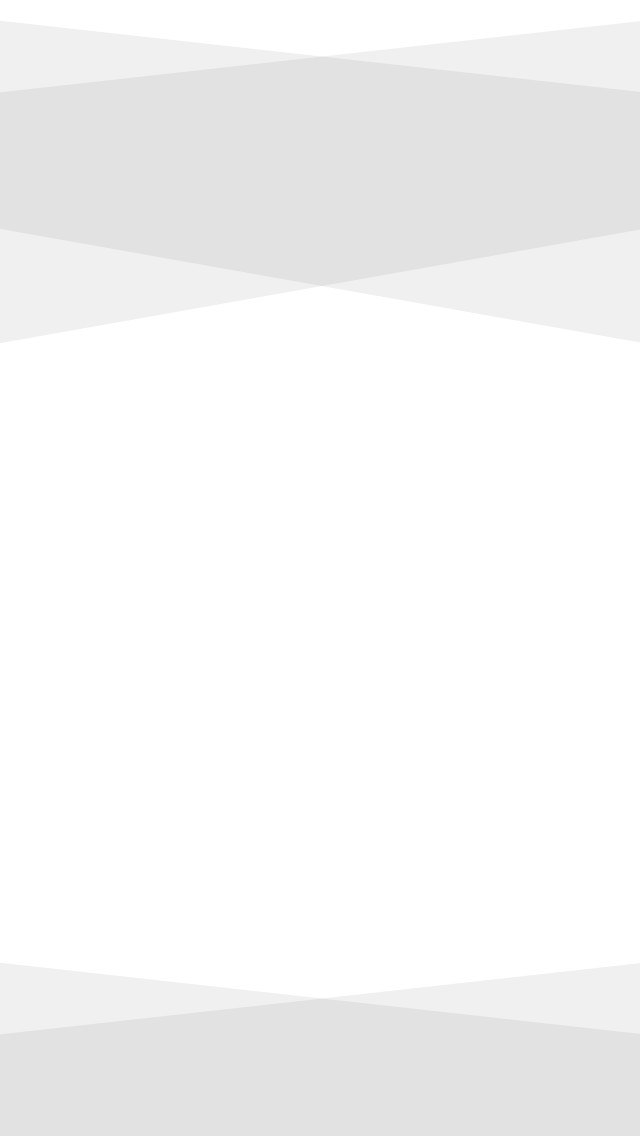
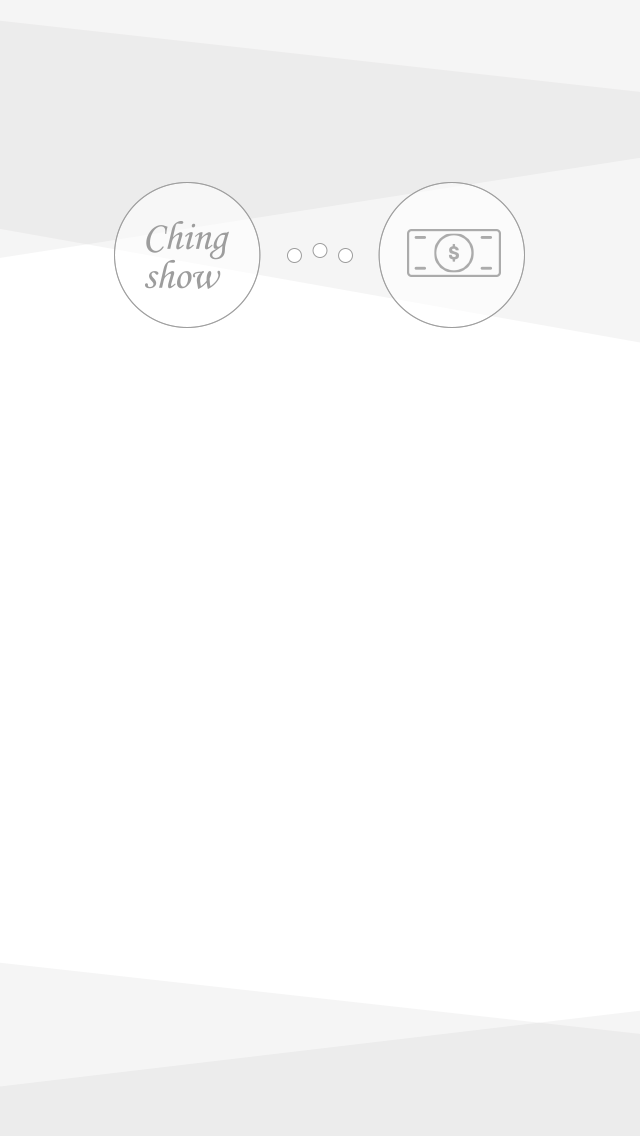
app-web: backup share bonus

Changed region(s): [[0.5938, 0.154, 0.8125, 0.2465], [0.1875, 0.1849, 0.4062, 0.2773], [0.4375, 0.2157, 0.5625, 0.2465]]

diff --git a/app-web/src/main/css/style.css b/app-web/src/main/css/style.css
@@ -315,16 +315,42 @@ body {
     height: 100%;
 }
 
-.p04-top-logo {
+.p04-waiting-container {
     position: absolute;
-    background-image: url(../assets/slicing/bonus/share_bonus_top_logo.png);
-    background-size: contain;
-    background-repeat: no-repeat;
-    top: 20%;
-    left: 10%;
-    height: 10%;
-    width: 80%;
-    background-position: 50% 100%;
+    top: 30%;
+    left: 15%;
+    height: 12%;
+    width: 70%;
+    text-align: center;
+}
+
+.p04-title {
+    font-size: 22px;
+    font-family: "Lantinghei SC";
+    color: #c8104e;
+}
+
+.p04-subtitle {
+    font-size: 10px;
+    font-family: "Lantinghei SC";
+    color: #434343;
+}
+
+.p04-circle-count-container {
+    position: absolute;
+    top: 42%;
+    left: 24%;
+    height: 30%;
+    width: 52%;
+}
+
+.p04-circle-count-canvas {
+    position: absolute;
+    top: 0;
+    left: 0;
+    width: 100%;
+    height: 100%;
+    background-color: #0066bb;
 }
 
 .p04-download {
@@ -333,31 +359,17 @@ body {
     background-size: contain;
     background-repeat: no-repeat;
     background-position: 50% 100%;
-    bottom: 3%;
+    bottom: 11%;
     left: 35%;
     height: 15%;
     width: 30%;
 }
 
-.p04-withdraw-content {
+.p04-bottom-text {
     position: absolute;
-    background-image: url(../assets/slicing/bonus/share_bonus_withdraw_content.png);
-    background-size: contain;
-    background-repeat: no-repeat;
-    background-position: 50% 100%;
-    top: 42%;
-    left: 20%;
-    height: 35%;
-    width: 60%;
-}
-.p04-waiting-content {
-    position: absolute;
-    background-image: url(../assets/slicing/bonus/share_bonus_waiting_content.png);
-    background-size: contain;
-    background-repeat: no-repeat;
-    background-position: 50% 100%;
-    top: 37%;
+    bottom: 4%;
     left: 15%;
-    height: 37%;
+    height: 5%;
     width: 70%;
+    text-align: center;
 }

diff --git a/app-web/src/main/js/views/P04ShareBonus.html b/app-web/src/main/js/views/P04ShareBonus.html
@@ -1,7 +1,16 @@
 <div class="qs-page">
     <div class="p04-background"></div>
-    <div class="p04-top-logo"></div>
-    <div class="p04-withdraw-content" style="display:none"></div>
-    <div class="p04-waiting-content" style="display:none"></div>
+    <div class="p04-waiting-container">
+        <div class="p04-title">佣金提现处理中...</div>
+        <div class="p04-subtitle">系统将在15分钟后完成您的申请<br/>成功后请点击下方按钮完成提现</div>
+    </div>
+    <div class="">
+    <div class="p04-circle-count-container">
+        <canvas class="p04-circle-count-canvas"></canvas>
+    </div>
+
+
+
     <div class="p04-download"></div>
+    <div class="p04-bottom-text p04-subtitle">赶快加入倾秀  |  折扣享不停  佣金赚不尽</div>
 </div>
